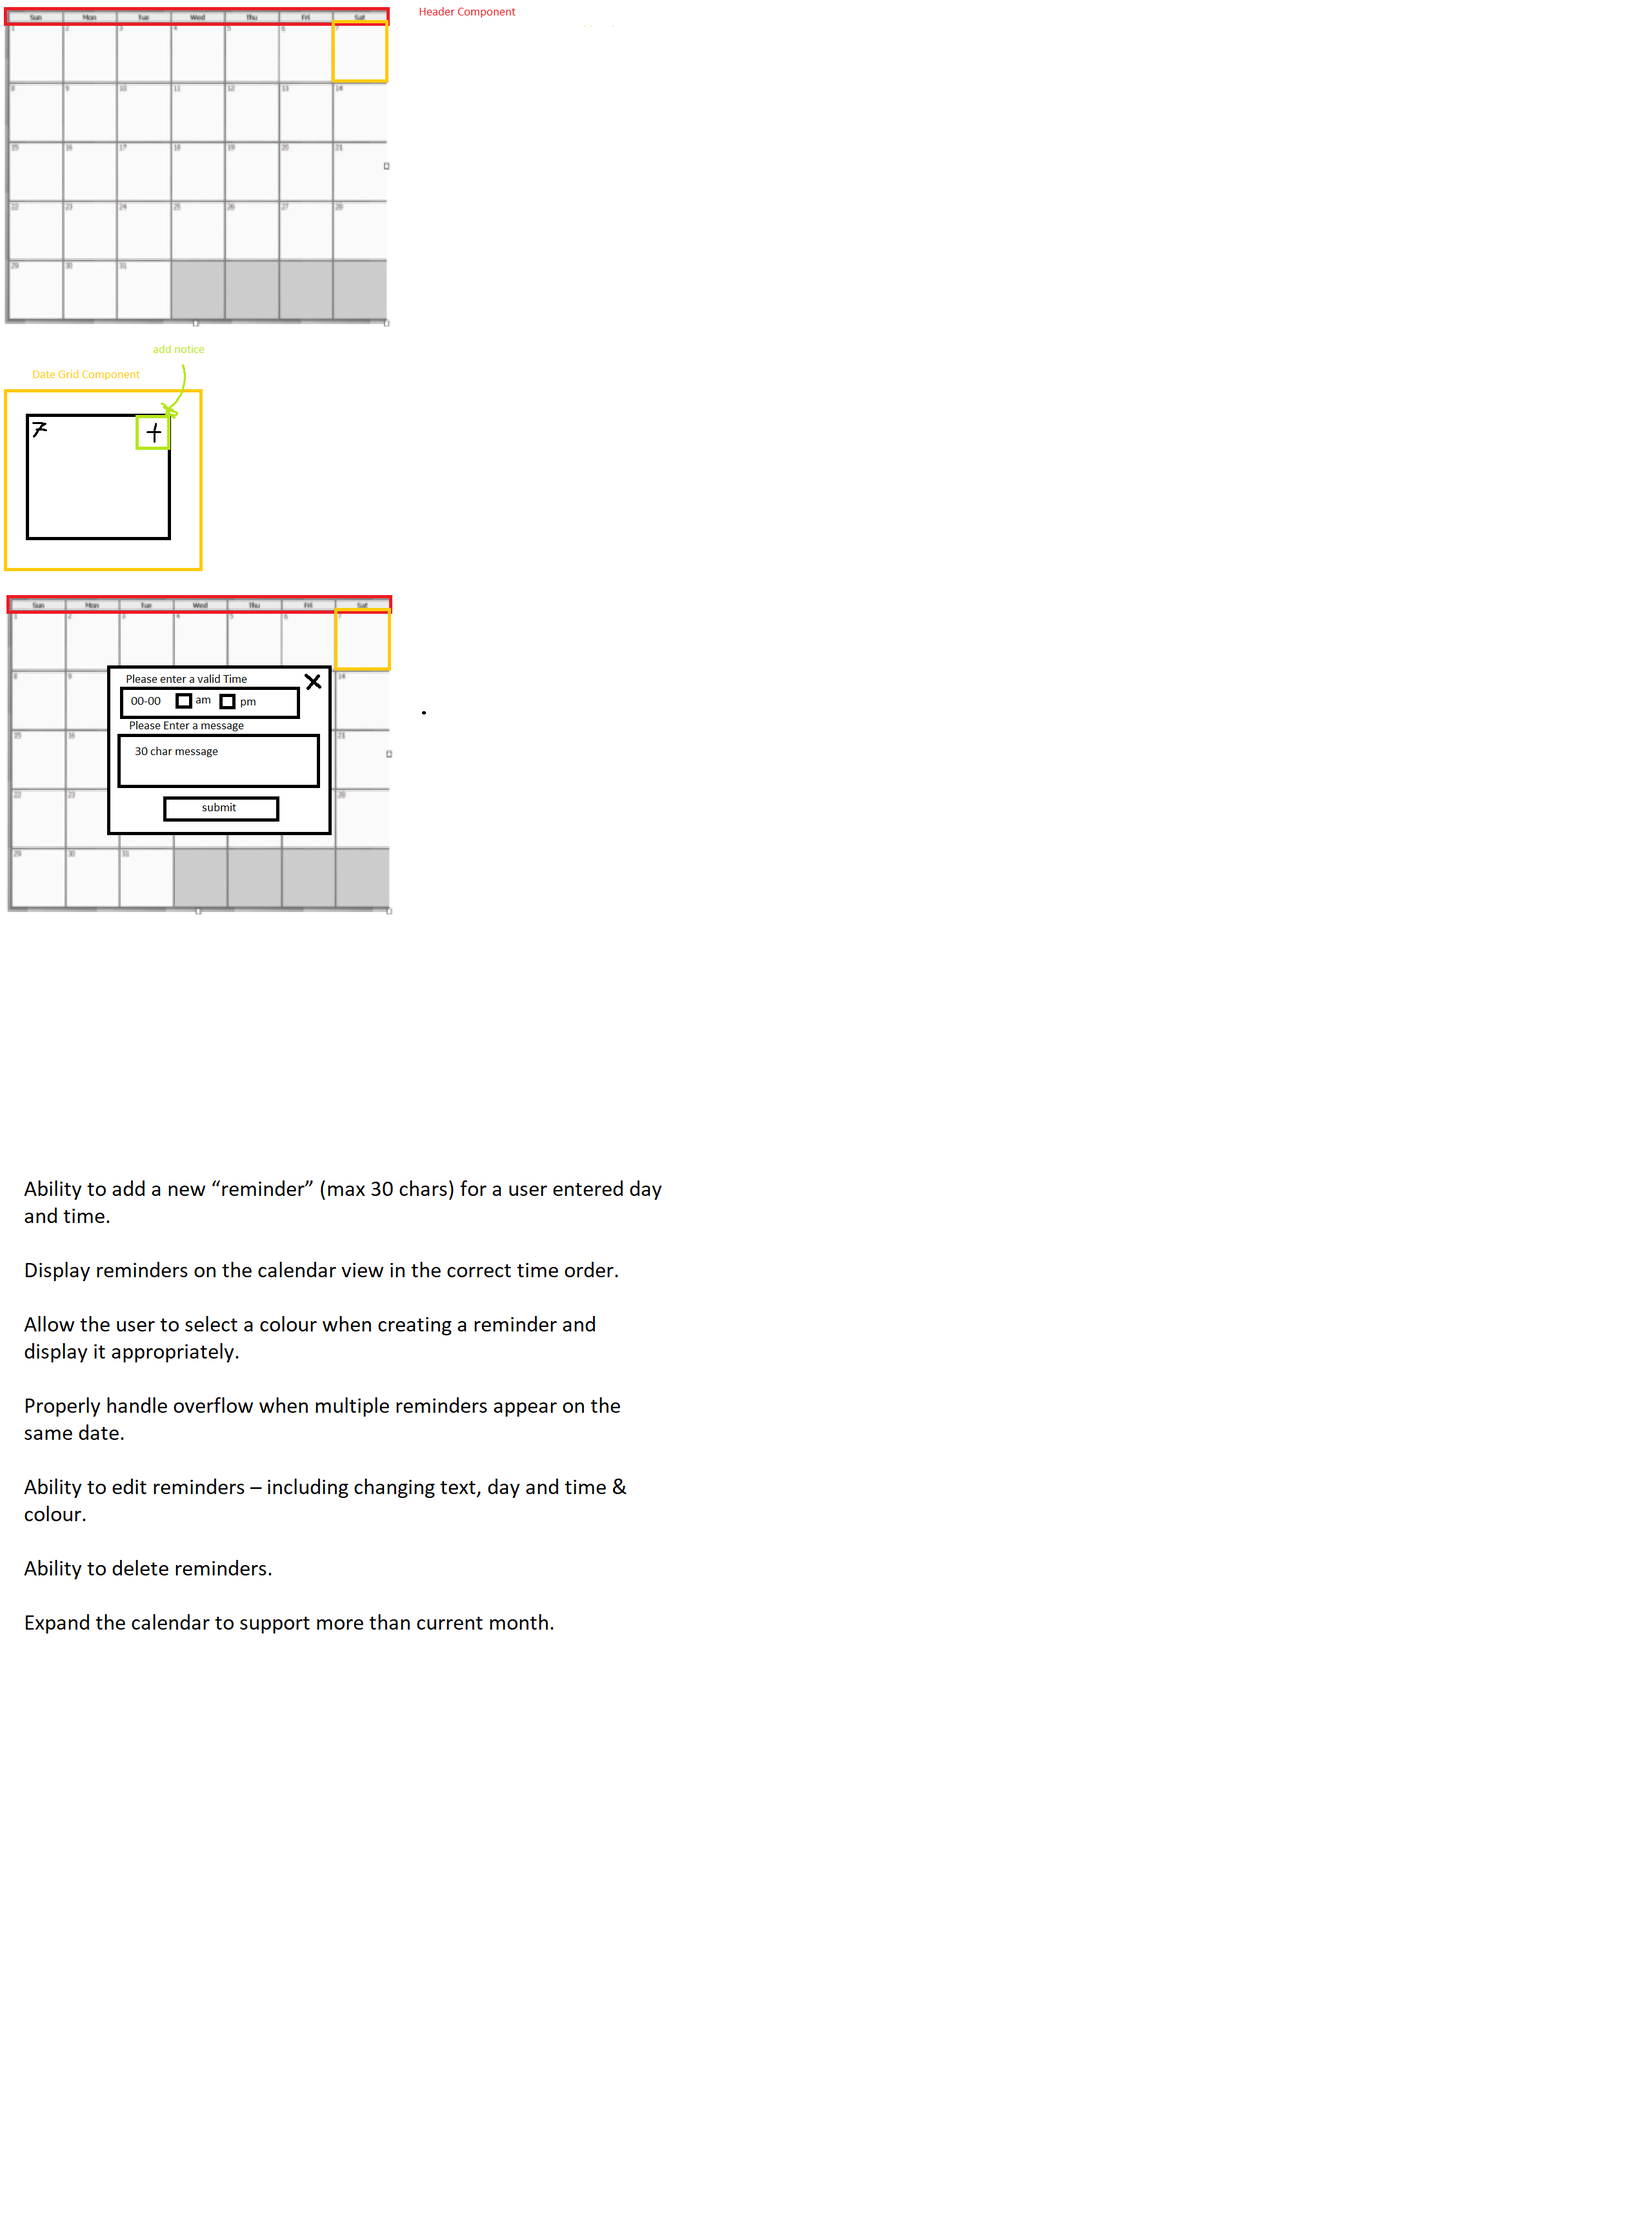
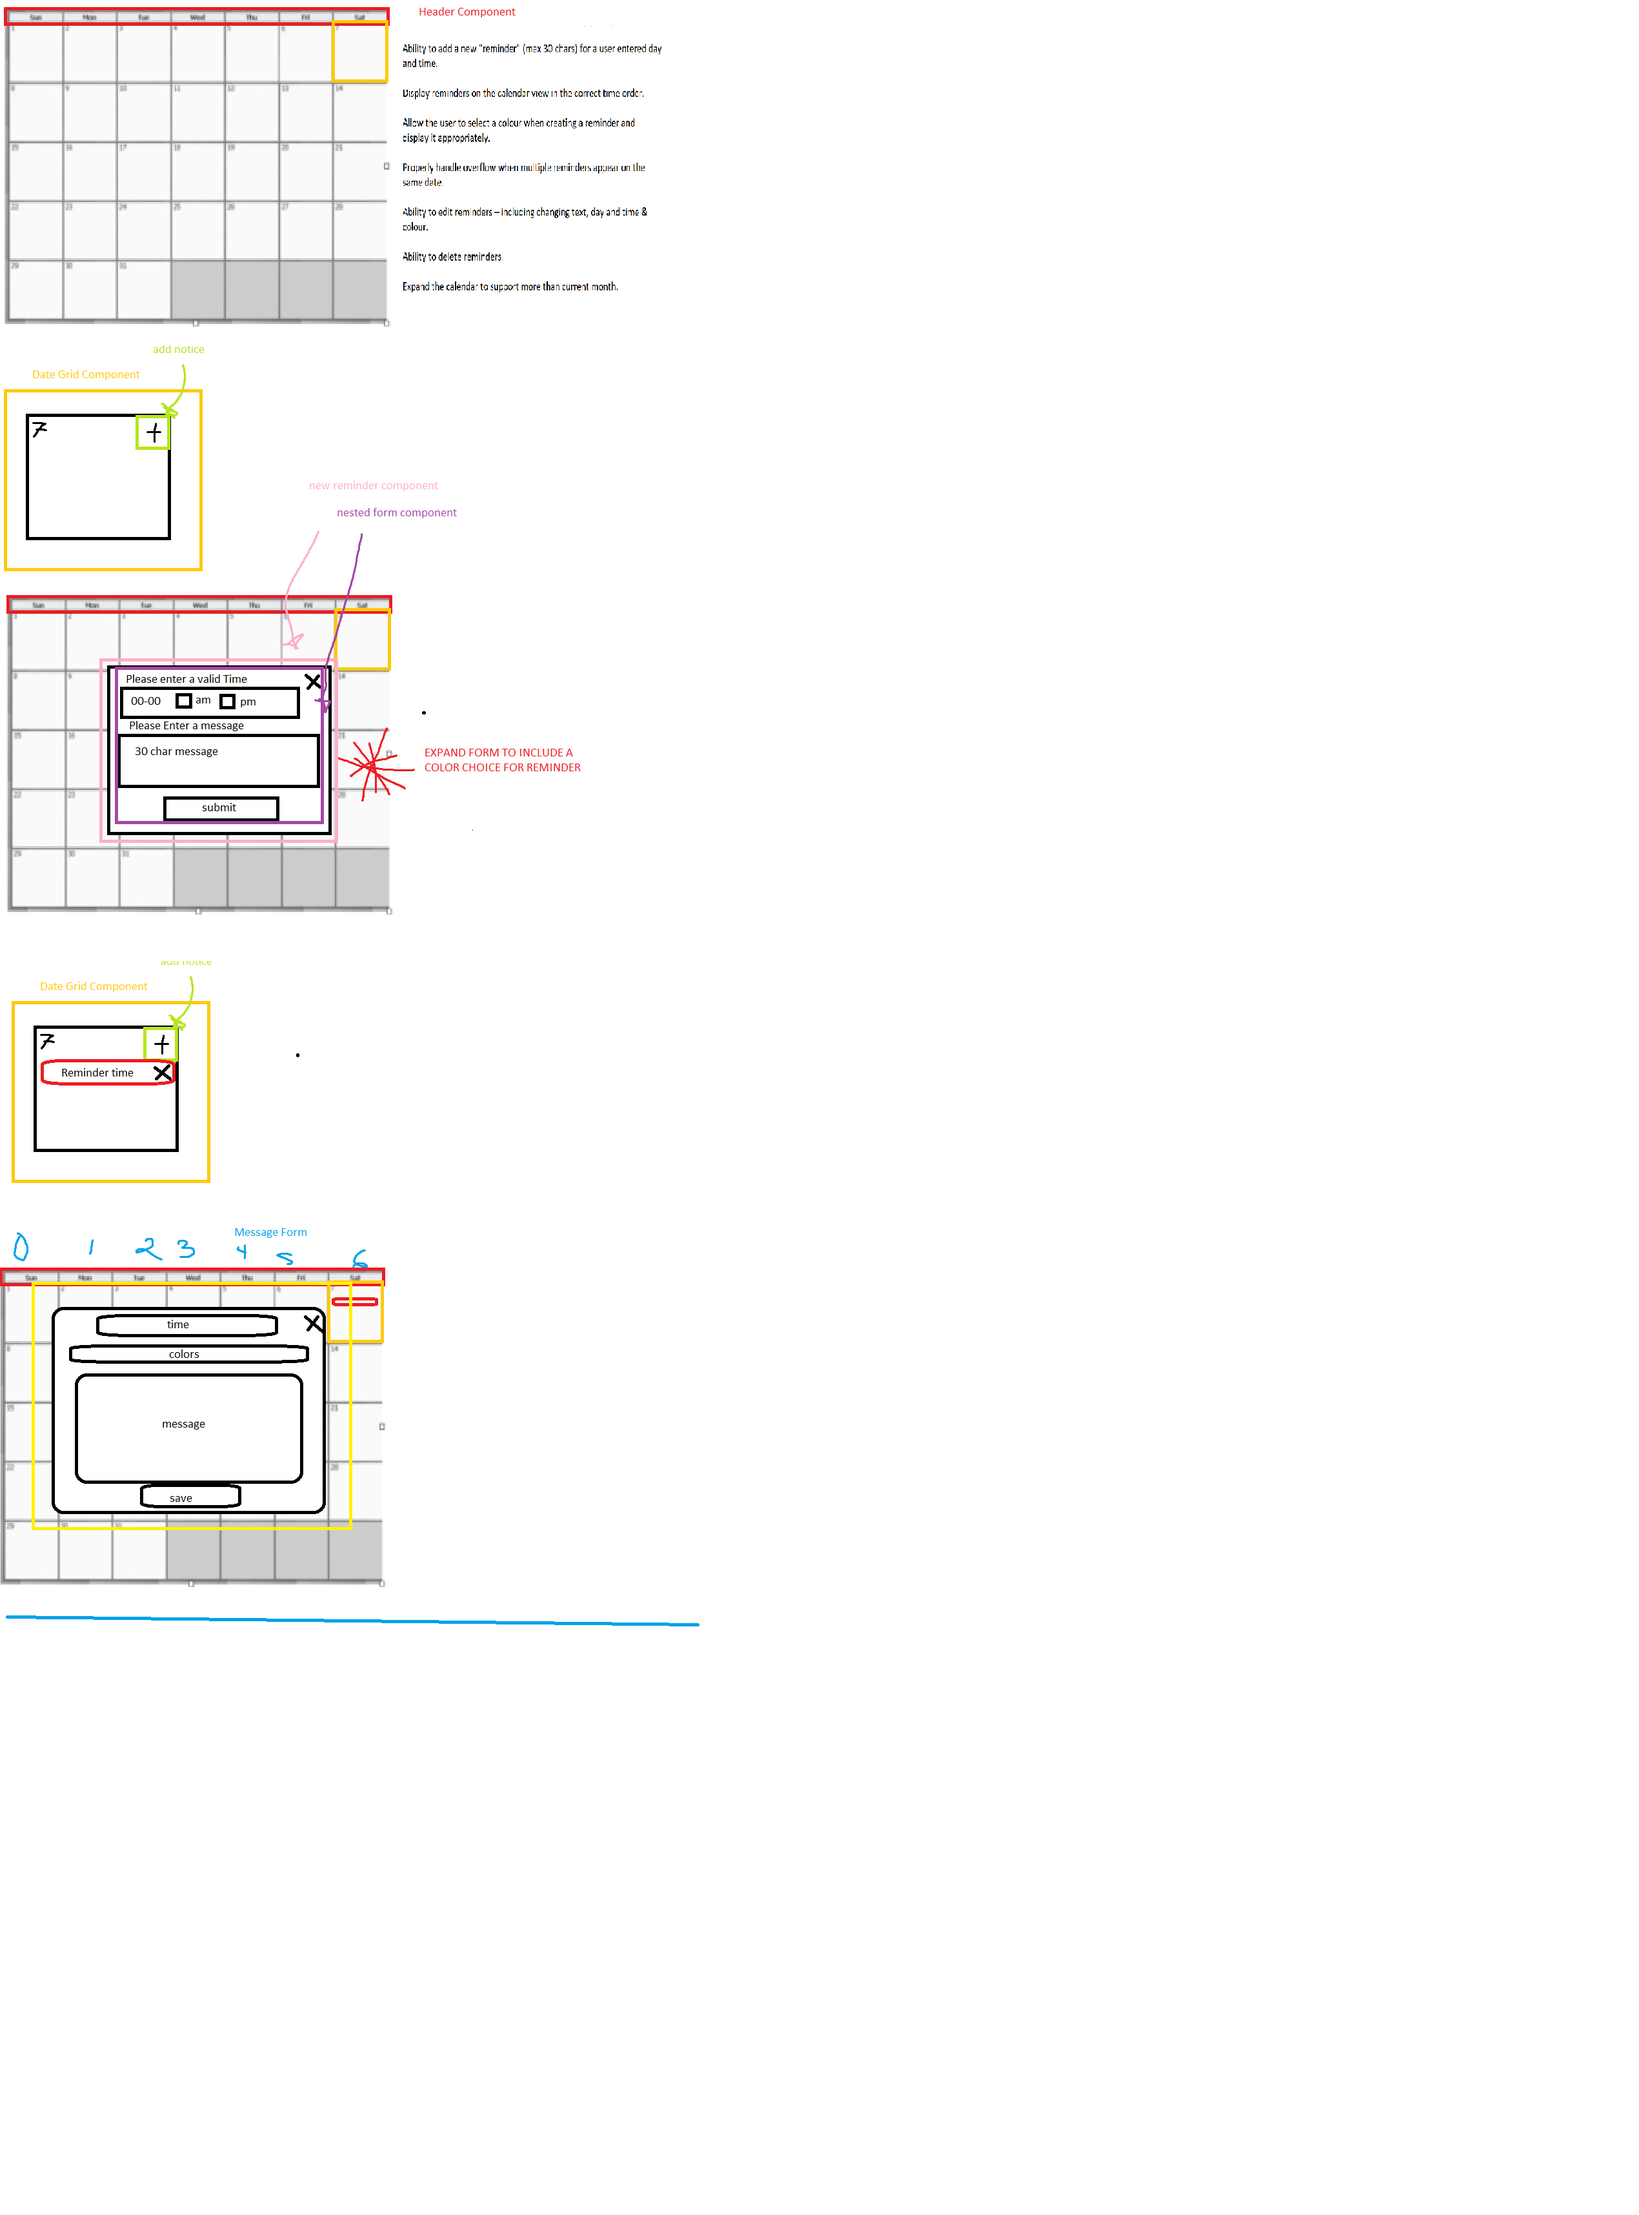
Add Reminder functionality added

diff --git a/src/UI/NewReminderForm/NewReminderForm.js b/src/UI/NewReminderForm/NewReminderForm.js
@@ -3,12 +3,15 @@ import { connect } from 'react-redux';
 import styles from './NewReminderForm.css';
 //import Aux from '../../../hoc/Auxillary';
 import Backdrop from  '../Backdrop/Backdrop';
+import * as actions from '../../store/actions/dates';
+
 
 class NewReminderForm extends Component{ 
 
     state = {
         time: null,
-        reminderText: null
+        reminderText: null,
+        reminderTime: null
     }
 
     shouldComponentUpdate(nextProps, nextState) {
@@ -20,16 +23,16 @@ class NewReminderForm extends Component{
         console.log(event.target.value);
          
         this.setState({reminderText: event.target.value})
-        console.log('[REMAINDER TEXT] : ', event.target.value);
     }
 
     onSubmitHandler = (event ) => {
+        this.props.addReminder(this.props.workingIndex - 1, {reminderNote: this.state.reminderText, reminderTime:this.state.reminderTime });
         event.preventDefault();
         event.target.reset();
-        console.log("YOOOOOOOOOOOOOOOOOOOOOOOOOOOOOOOOOOO");
+        
         this.setState({reminderText: ""})
         this.setState({reminderText: null})
-        //Invoke a function to set parent component to set show to false, at the end of course 
+        //Invoke a function to set parent component to set show to false, at the end of course
         this.props.closeAddReminder();
     }
 
@@ -40,7 +43,6 @@ class NewReminderForm extends Component{
         if( this.props.workingIndex){
             index = this.props.workingIndex - 1;
         }
-        console.log('[REMAINDER TEXT] : ', this.state.reminderText);
         return(
            
             <Fragment>
@@ -79,4 +81,11 @@ const mapStateToProps = state => {
     }
 }
 
-export default connect(mapStateToProps)(NewReminderForm);
+
+const mapDispatchToProps = dispatch => {
+    return{
+        addReminder : (index,reminder) => dispatch(actions.addReminder(index, reminder))
+    }
+}
+
+export default connect(mapStateToProps , mapDispatchToProps)(NewReminderForm);

diff --git a/src/store/reducers/dates.js b/src/store/reducers/dates.js
@@ -40,12 +40,20 @@ const intialState= {
 } 
 
 const addReminder = ( state ,action) => {
+
+    let cloneOfState = {...state};
+    let cloneOfDays = [...cloneOfState.daysOfTheMonth];
+    cloneOfDays[action.payload.index].reminders.push(action.payload.reminder);
+
+
     return {
         ...state,
         currentIndex: action.payload.index,
-        reminder: action.payload.reminder
+        daysOfTheMonth: cloneOfDays
     }
 }
+
+
 
 const removeReminder =( state ,action) => {
     return {

diff --git a/src/store/actions/dates.js b/src/store/actions/dates.js
@@ -9,3 +9,17 @@ export const setIndex = (index) => {
         }
     }
 }
+
+
+export const addReminder = (index, reminder) => {
+    console.log('[IN THE ACTION PART OF STORE FOR ADD REMINDER ]', reminder);
+    return {
+        type: actionTypes.ADD_REMINDER,
+        payload: {
+            index,
+            reminder
+        }
+    }
+}
+
+

diff --git a/src/Container/Calendar/Calendar.js b/src/Container/Calendar/Calendar.js
@@ -40,6 +40,8 @@ class Calendar extends Component {
             )
         });
 
+
+        console.log('ERROR BOUNDARY CONDITION FOR props.day', this.props.days);
         weekDays = this.props.days.filter(day =>  day.index < 7 - this.state.firstDayOffset).map( day => {
             return (
                 <CalendarDay key={day.index} 
